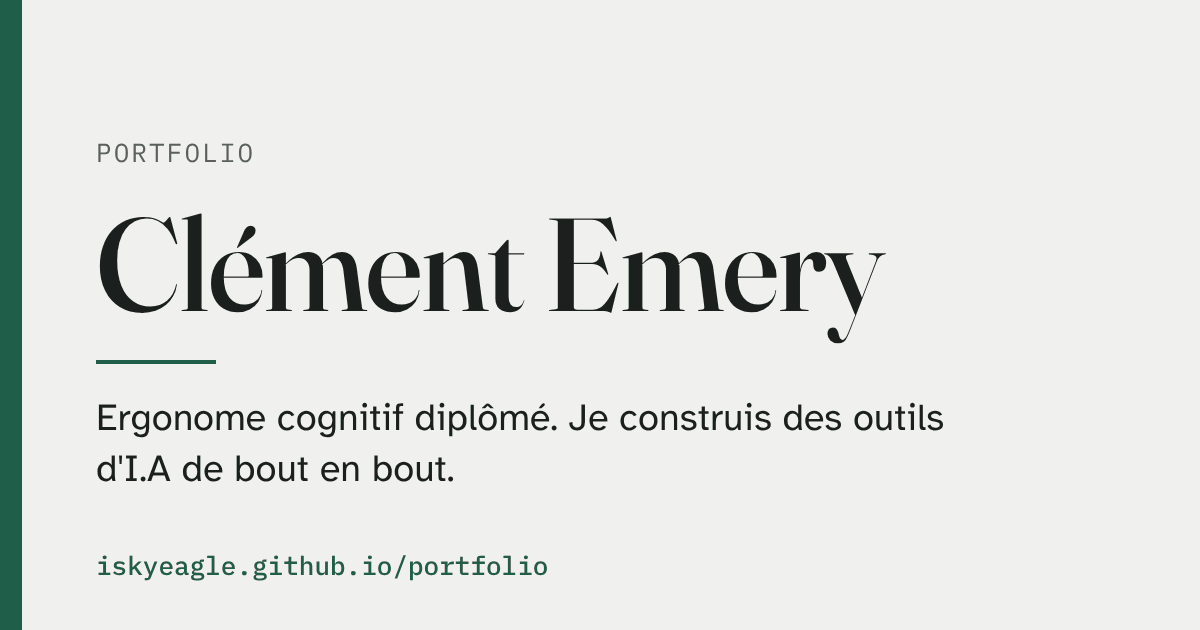
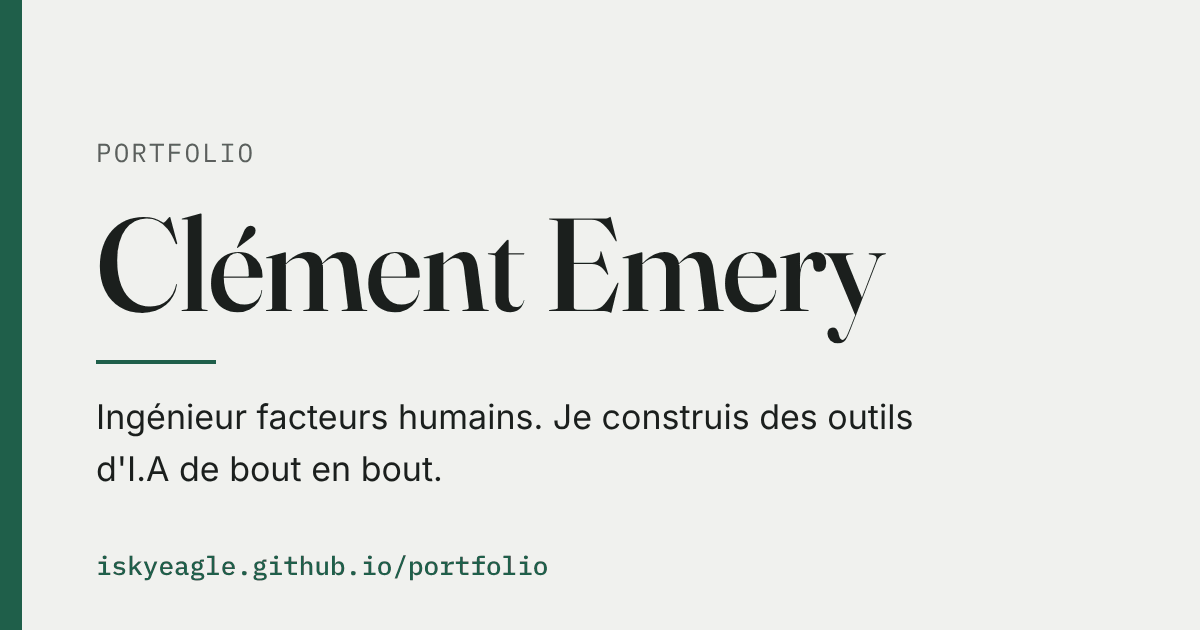
Remplace « ergonome cognitif » par « ingénieur facteurs humains »
- Accroche de l'accueil et compétence Facteurs humains et IHM
- Texte alternatif et image d'aperçu (nouvelle adresse pour forcer le rafraîchissement)

Changed region(s): [[0.0617, 0.6333, 0.8017, 0.6937], [0.0925, 0.7238, 0.37, 0.7841]]

diff --git a/index.html b/index.html
@@ -8,10 +8,10 @@
 <meta property="og:description" content="I.A appliquée et facteurs humains : compétences, démonstrations et projets.">
 <meta property="og:type" content="website">
 <meta property="og:url" content="https://iskyeagle.github.io/portfolio/">
-<meta property="og:image" content="https://iskyeagle.github.io/portfolio/og-image.png">
+<meta property="og:image" content="https://iskyeagle.github.io/portfolio/og-image.png?v=2">
 <meta property="og:image:width" content="1200">
 <meta property="og:image:height" content="630">
-<meta property="og:image:alt" content="Portfolio de Clément Emery, Ingénieur Facteurs Humains diplômé">
+<meta property="og:image:alt" content="Portfolio de Clément Emery, ingénieur facteurs humains">
 <meta property="og:locale" content="fr_FR">
 <meta name="twitter:card" content="summary_large_image">
 <title>Portfolio Clément Emery</title>

diff --git a/src/data/skills.ts b/src/data/skills.ts
@@ -138,7 +138,7 @@ export const skills: Skill[] = [
     title: 'Facteurs humains et IHM',
     short: 'Partir de l\'usage réel et mesurer ce que le système change.',
     description:
-      "Ma formation d'ergonome cognitif guide ce que je construis : je pars de l'usage réel et je mesure ce qu'un système change pour ses utilisateurs.",
+      "Mon métier d'ingénieur facteurs humains guide ce que je construis : je pars de l'usage réel et je mesure ce qu'un système change pour ses utilisateurs.",
     tools: ['Ergonomie cognitive', 'Critères de Bastien et Scapin', 'Protocole expérimental'],
     proofs: [
       {

diff --git a/src/pages/Home.tsx b/src/pages/Home.tsx
@@ -12,7 +12,7 @@ export function Home() {
           <h1 id="nom">Clément Emery</h1>
           <p className="lead">
             Je construis des outils d'I.A de bout en bout : agents et automatisations, LLM exécutés en local, applications
-            déployées. Ergonome cognitif de formation (Master 2 ESCSI), je les conçois et je les évalue du point de vue de
+            déployées. Ingénieur facteurs humains, formé en ergonomie cognitive (Master 2 ESCSI), je les conçois et je les évalue du point de vue de
             leurs utilisateurs.
           </p>
         </div>
